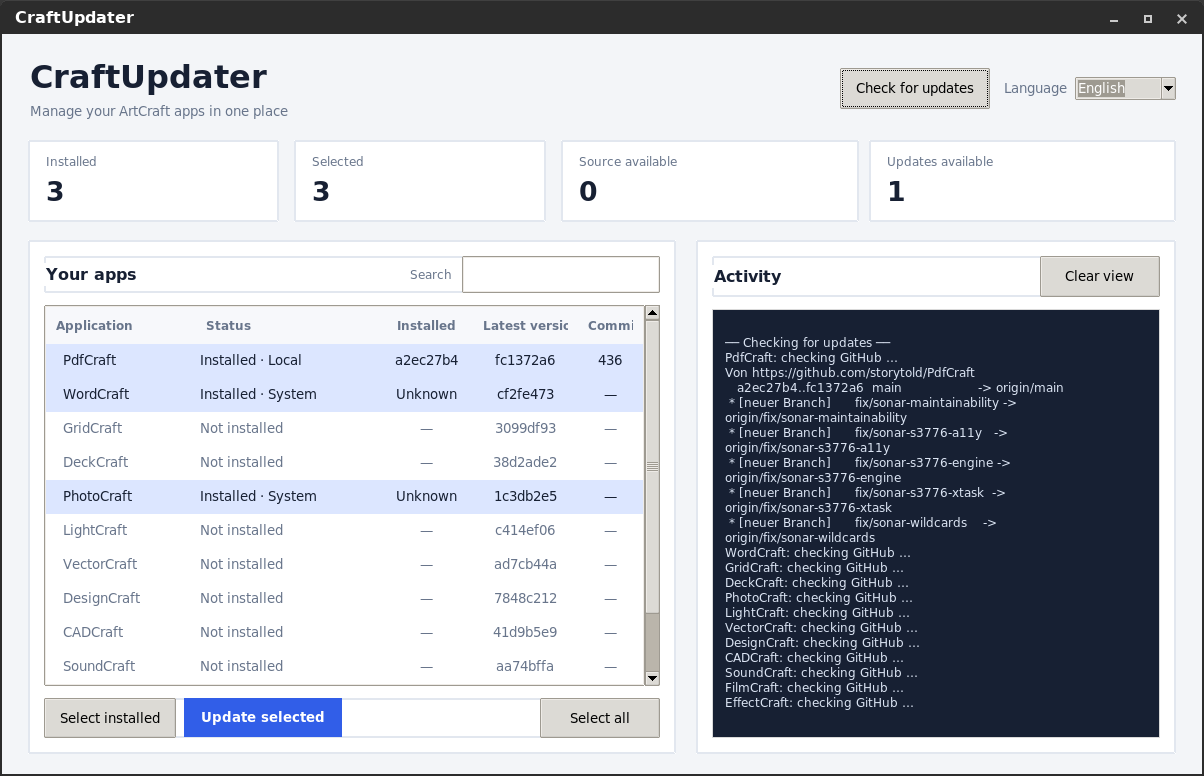
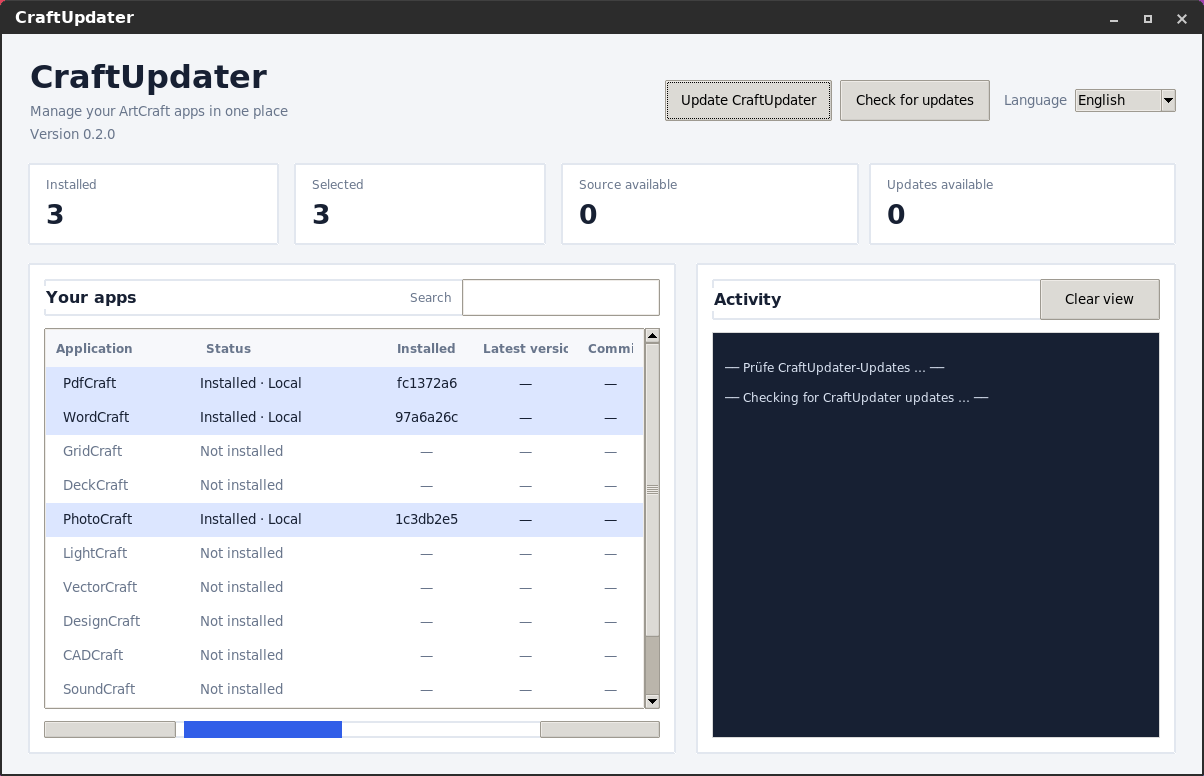
Update README screenshots

diff --git a/README.md b/README.md
@@ -8,6 +8,10 @@ A lightweight Linux desktop app for checking, building, and updating the open so
 
 ![CraftUpdater main window](assets/img/main-window.png)
 
+**Installing a CraftUpdater update**
+
+![CraftUpdater update dialog with release notes](assets/img/updater_CraftUpdater.png)
+
 **Building an update**
 
 ![CraftUpdater building an update](assets/img/main-window-2.png)
